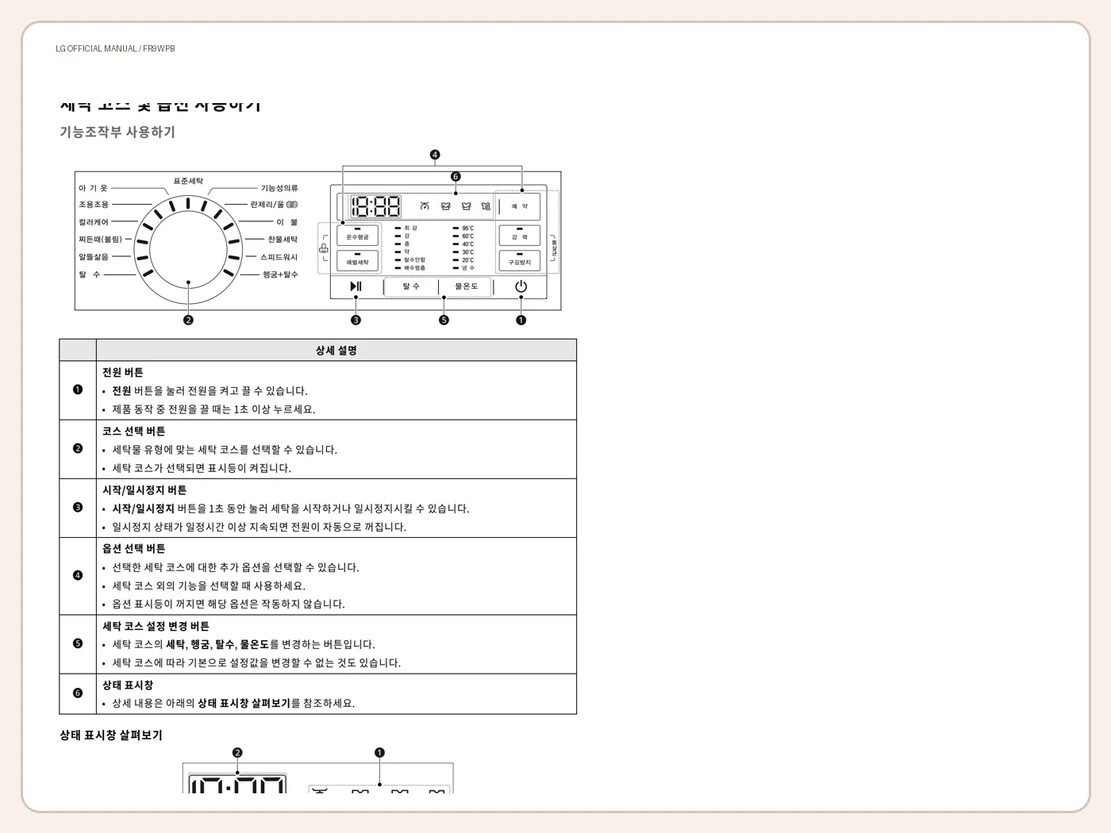
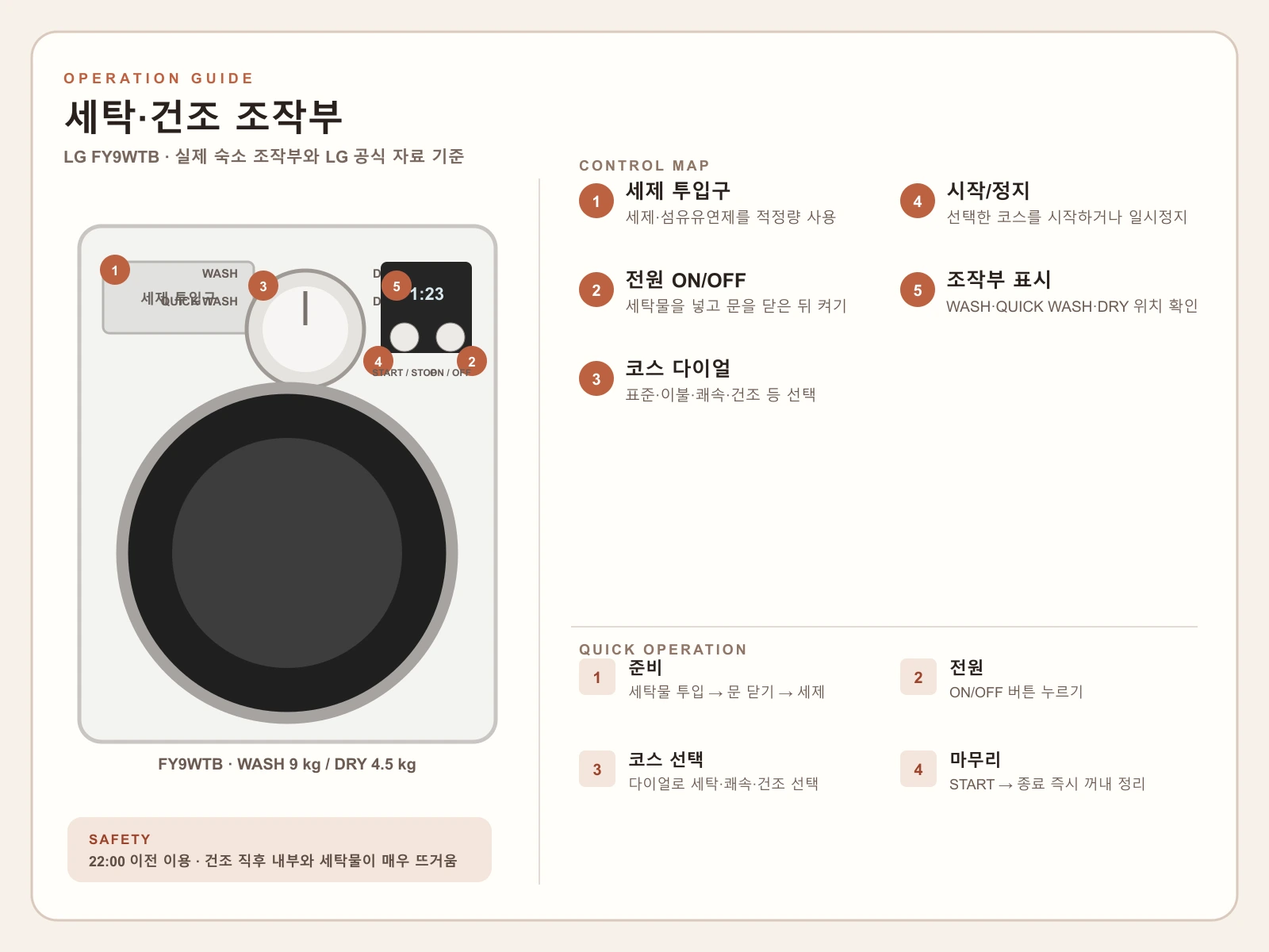
Update appliance guides and shared facilities

diff --git a/assets/site-data.js b/assets/site-data.js
@@ -159,11 +159,13 @@
       ]},
       appliances: { title: I('기기 사용법', 'Appliance guide', '設備ガイド', '设备指南'), kicker: 'APPLIANCES', hero: '/assets/images/kitchen.webp', summary: I('사진에서 확인한 모델명과 제조사 공식 자료를 대조해, 숙소에서 자주 쓰는 조작만 정리했습니다.', 'We matched the photographed models with manufacturer documentation and summarized the controls guests use most.', '写真の型番をメーカー公式資料と照合し、滞在中によく使う操作をまとめました。', '已将照片中的型号与制造商官方资料核对，并整理住客常用操作。'), devices: [
         { name: I('객실 냉난방', 'Room climate control', '客室空調', '房间空调'), model: 'Samsung AM016BN1PBH2 · AWR/MWR-WG00 series controller', image: '/assets/images/climate.webp', manualUrl: I('https://samsung.aiibook.net/b2b/catImage/263/240823_SAC%20%EC%A0%9C%EC%96%B4%20%EC%8B%9C%EC%8A%A4%ED%85%9C%20%EC%84%A4%EC%B9%98%20%EA%B0%80%EC%9D%B4%EB%93%9C%EB%B6%81.pdf','https://org.downloadcenter.samsung.com/downloadfile/ContentsFile.aspx?CDSite=UNI_RS&OriginYN=N&ModelType=N&ModelName=MWR-WG00JN&CttFileID=11569184&CDCttType=UM&VPath=UM%2F202607%2F20260723130050154%2FDB68-08383A-09_IB_SOL_LCD_Wired_Remote1_EU_Book_EN_260623-D01.pdf','https://org.downloadcenter.samsung.com/downloadfile/ContentsFile.aspx?CDSite=UNI_RS&OriginYN=N&ModelType=N&ModelName=MWR-WG00JN&CttFileID=11569184&CDCttType=UM&VPath=UM%2F202607%2F20260723130050154%2FDB68-08383A-09_IB_SOL_LCD_Wired_Remote1_EU_Book_EN_260623-D01.pdf','https://org.downloadcenter.samsung.com/downloadfile/ContentsFile.aspx?CDSite=UNI_RS&OriginYN=N&ModelType=N&ModelName=MWR-WG00JN&CttFileID=11569184&CDCttType=UM&VPath=UM%2F202607%2F20260723130050154%2FDB68-08383A-09_IB_SOL_LCD_Wired_Remote1_EU_Book_EN_260623-D01.pdf'), manualLabel: I('삼성 공식 설명서', 'Samsung official manual', 'Samsung公式説明書', '三星官方说明书'), guideSourceUrl: I('https://samsung.aiibook.net/b2b/catImage/263/240823_SAC%20%EC%A0%9C%EC%96%B4%20%EC%8B%9C%EC%8A%A4%ED%85%9C%20%EC%84%A4%EC%B9%98%20%EA%B0%80%EC%9D%B4%EB%93%9C%EB%B6%81.pdf','https://org.downloadcenter.samsung.com/downloadfile/ContentsFile.aspx?CDSite=UNI_UK&OriginYN=N&ModelType=N&ModelName=MWR-WG00JN&CttFileID=11569165&CDCttType=UM&VPath=UM%2F202607%2F20260723130050154%2FDB68-08383A-09_IB_SOL_LCD_Wired_Remote1_EU_Wing_EN_260623-D01.pdf','https://org.downloadcenter.samsung.com/downloadfile/ContentsFile.aspx?CDSite=UNI_UK&OriginYN=N&ModelType=N&ModelName=MWR-WG00JN&CttFileID=11569165&CDCttType=UM&VPath=UM%2F202607%2F20260723130050154%2FDB68-08383A-09_IB_SOL_LCD_Wired_Remote1_EU_Wing_EN_260623-D01.pdf','https://org.downloadcenter.samsung.com/downloadfile/ContentsFile.aspx?CDSite=UNI_UK&OriginYN=N&ModelType=N&ModelName=MWR-WG00JN&CttFileID=11569165&CDCttType=UM&VPath=UM%2F202607%2F20260723130050154%2FDB68-08383A-09_IB_SOL_LCD_Wired_Remote1_EU_Wing_EN_260623-D01.pdf'), guideSourceLabel: I('Samsung 조작부 공식 도해', 'Samsung official controller overview', 'Samsung公式操作部図', 'Samsung官方控制器图解'), guideImage: I('/assets/images/guides/official-samsung-ko.webp', '/assets/images/guides/official-samsung-en.webp', '/assets/images/guides/official-samsung-en.webp', '/assets/images/guides/official-samsung-en.webp'), steps: I(['왼쪽 아래 전원 버튼을 눌러 켭니다.','화면에서 운전 모드를 선택한 뒤 냉방 또는 난방을 고릅니다.','위·아래 버튼으로 희망 온도를 맞춥니다.','필요하면 풍량 메뉴에서 바람 세기를 조절합니다.','외출할 때는 전원을 꺼 주세요. 중앙 제어 중에는 일부 모드가 제한될 수 있습니다.'],['Press the lower-left power button.','Open Operation Mode and choose Cool or Heat.','Use up/down to set the target temperature.','Adjust fan speed from the fan menu if needed.','Turn it off when leaving. Some modes may be restricted by central control.'],['左下の電源を押します。','運転モードから冷房または暖房を選びます。','上下で設定温度を調節します。','必要に応じて風量を調節します。','外出時は電源を切ってください。集中制御中は一部モードが制限されます。'],['按左下角电源键。','在运行模式中选择制冷或制热。','用上下键设定温度。','需要时调节风量。','离开时请关闭。中央控制时部分模式可能受限。']) },
-        { name: I('전자레인지', 'Microwave', '電子レンジ', '微波炉'), model: 'Cooing MM-E20RBKC · 20 L / 700 W', image: '/assets/images/microwave.webp', manualUrl: 'https://www.rra.go.kr/ko/license/A_b_popup_keyno.do?key_no=R-R-mdk-AM720C2AD-PM0B', manualLabel: I('제품 공식 인증 정보', 'Official product certification', '製品公式認証情報', '产品官方认证信息'), guideSourceUrl: 'https://www.midea.com/content/dam/midea-aem/kz/manual/UM-K%D0%90Z-RUS-AM720C2MV-B-S-W-1-.pdf', guideSourceLabel: I('Midea AM720 공식 모델군 설명서', 'Midea AM720 official family manual', 'Midea AM720公式モデル群説明書', 'Midea AM720官方系列说明书'), guideImage: I('/assets/images/guides/official-microwave-ko.webp', '/assets/images/guides/official-microwave-en.webp', '/assets/images/guides/official-microwave-en.webp', '/assets/images/guides/official-microwave-en.webp'), steps: I(['금속·포일은 넣지 말고 전자레인지용 용기를 사용합니다.','음식을 넣고 문을 완전히 닫습니다.','빠른 가열은 시작/+30초 버튼을 누르며 시간을 늘립니다.','세부 설정은 전자레인지/출력 또는 무게해동·시간해동을 선택하고 다이얼로 맞춘 뒤 시작합니다.','정지/취소로 멈추고, 가열 중에는 자리를 비우지 마세요.'],['Use microwave-safe containers; never use metal or foil.','Place food inside and close the door fully.','For quick heating, press Start/+30 sec repeatedly.','For detailed settings, choose Power, Weight Defrost, or Time Defrost, set with the dial, then press Start.','Press Stop/Cancel to stop, and never leave heating unattended.'],['金属やアルミホイルは使わず、電子レンジ対応容器を使います。','食品を入れ、扉を完全に閉めます。','すぐに温める場合は「スタート/+30秒」を押します。','出力・重量解凍・時間解凍を選び、ダイヤルで設定してスタートします。','停止/取消で止め、加熱中は離れないでください。'],['请使用微波炉专用容器，勿放入金属或锡纸。','放入食物并关好门。','快速加热时反复按“启动/+30秒”。','选择功率、重量解冻或时间解冻，用旋钮设定后启动。','按停止/取消结束，加热时请勿离开。']) },
+        { name: I('전자레인지', 'Microwave', '電子レンジ', '微波炉'), model: 'Cooing MM-E20RBKC · 20 L / 700 W', image: '/assets/images/microwave.webp', manualUrl: 'https://www.rra.go.kr/ko/license/A_b_popup_keyno.do?key_no=R-R-mdk-AM720C2AD-PM0B', manualLabel: I('제품 공식 인증 정보', 'Official product certification', '製品公式認証情報', '产品官方认证信息'), guideSourceUrl: 'https://www.midea.com/content/dam/midea-aem/kz/manual/UM-K%D0%90Z-RUS-AM720C2MV-B-S-W-1-.pdf', guideSourceLabel: I('Midea AM720 공식 모델군 설명서', 'Midea AM720 official family manual', 'Midea AM720公式モデル群説明書', 'Midea AM720官方系列说明书'), guideImage: I('/assets/images/guides/official-microwave-ko.webp', '/assets/images/guides/official-microwave-en.webp', '/assets/images/guides/official-microwave-en.webp', '/assets/images/guides/official-microwave-en.webp'), steps: I(['금속·포일은 넣지 말고 전자레인지용 용기를 사용합니다.','음식을 넣고 문을 완전히 닫습니다.','빠른 가열은 시작/+30초 버튼을 누르며 시간을 늘립니다.','세부 설정은 파워조절 또는 해동 무게/시간 버튼을 누르고 다이얼로 값을 맞춘 뒤 시작합니다.','정지/취소로 멈추고, 가열 중에는 자리를 비우지 마세요.'],['Use microwave-safe containers; never use metal or foil.','Place food inside and close the door fully.','For quick heating, press Start/+30 sec repeatedly.','For detailed settings, choose Power, Weight Defrost, or Time Defrost, set with the dial, then press Start.','Press Stop/Cancel to stop, and never leave heating unattended.'],['金属やアルミホイルは使わず、電子レンジ対応容器を使います。','食品を入れ、扉を完全に閉めます。','すぐに温める場合は「スタート/+30秒」を押します。','出力・重量解凍・時間解凍を選び、ダイヤルで設定してスタートします。','停止/取消で止め、加熱中は離れないでください。'],['请使用微波炉专用容器，勿放入金属或锡纸。','放入食物并关好门。','快速加热时反复按“启动/+30秒”。','选择功率、重量解冻或时间解冻，用旋钮设定后启动。','按停止/取消结束，加热时请勿离开。']) },
         { name: I('하이라이트 전기쿡탑', 'Ceramic cooktop', '電気クッキングヒーター', '电陶炉'), model: 'Haatz HEC-1050S(H)-01', image: '/assets/images/cooktop.webp', manualUrl: 'https://www.haatz.com/upload/manual/202601/1767614190_m0137482_20260105205630.pdf', manualLabel: I('하츠 공식 설명서', 'Haatz official manual', 'Haatz公式説明書', 'Haatz官方说明书'), guideImage: I('/assets/images/guides/official-haatz.webp', '/assets/images/guides/official-haatz-en.webp', '/assets/images/guides/official-haatz-en.webp', '/assets/images/guides/official-haatz-en.webp'), steps: I(['평평한 바닥의 조리 용기를 올립니다.','전원 버튼을 1초간 눌러 대기 상태로 켭니다.','하이라이트 + 버튼을 누르면 1단으로 시작하며, + / −로 1–9단 화력을 조절합니다.','사용 후 전원 버튼을 1초간 눌러 끕니다.','잔열 표시 H가 사라질 때까지 상판을 만지지 마세요. 잠금 해제는 잠금 버튼을 2초간 누릅니다.'],['Use flat-bottom cookware.','Hold Power for 1 second to enter standby.','Press the Highlight + button to start at level 1, then use + / − for levels 1–9.','Hold Power for 1 second after use.','Do not touch while H is shown. To unlock, hold Lock for 2 seconds.'],['底が平らな調理器具を置きます。','電源を1秒長押しして待機状態にします。','ハイライトの＋で1段から開始し、＋／−で1〜9段を調節します。','使用後は電源を1秒長押しします。','余熱表示Hが消えるまで触れないでください。ロック解除は2秒長押しです。'],['使用平底锅具。','长按电源1秒进入待机。','按加热区＋从1档启动，再用＋／−调节1至9档。','使用后长按电源1秒关闭。','显示H时请勿触摸。长按锁定键2秒可解锁。']) },
-        { name: I('정수기', 'Water purifier', '浄水器', '净水器'), model: 'Chungho WP-30C9460BN', image: '/assets/images/purifier.webp', manualUrl: 'https://www.chungho.co.kr/newch/admin/manual/202405290953002979.pdf', manualLabel: I('청호 공식 설명서', 'Chungho official manual', 'Chungho公式説明書', 'Chungho官方说明书'), guideImage: I('/assets/images/guides/official-chungho-ko.webp', '/assets/images/guides/official-chungho-en.webp', '/assets/images/guides/official-chungho-en.webp', '/assets/images/guides/official-chungho-en.webp'), steps: I(['컵을 출수구 아래에 놓습니다.','정수·냉수·온수 버튼 중 원하는 물을 선택합니다.','용량 버튼으로 120 mL, 500 mL 또는 연속을 선택합니다.','출수 버튼을 눌러 물을 받습니다.','온수 사용 시 잠금 버튼을 약 5초 눌러 해제하고, 빨간 출수 버튼이 켜진 상태에서 화상에 주의하세요.'],['Place a cup under the spout.','Choose ambient, cold, or hot water.','Select 120 mL, 500 mL, or Continuous.','Press Dispense.','For hot water, hold Lock for about 5 seconds to unlock; take care when the dispense button turns red.'],['コップを注水口の下に置きます。','常温水・冷水・温水を選びます。','120 mL・500 mL・連続を選びます。','出水ボタンを押します。','温水はロックを約5秒長押しして解除し、赤い出水ボタン点灯中はやけどに注意してください。'],['将杯子放在出水口下。','选择常温、冷水或热水。','选择120 mL、500 mL或连续出水。','按出水键。','热水需长按锁定键约5秒解锁；出水键亮红色时谨防烫伤。']) }
+        { name: I('정수기', 'Water purifier', '浄水器', '净水器'), model: 'Chungho WP-30C9460BN', image: '/assets/images/purifier.webp', manualUrl: 'https://www.chungho.co.kr/newch/admin/manual/202405290953002979.pdf', manualLabel: I('청호 공식 설명서', 'Chungho official manual', 'Chungho公式説明書', 'Chungho官方说明书'), guideImage: I('/assets/images/guides/official-chungho-ko.webp', '/assets/images/guides/official-chungho-en.webp', '/assets/images/guides/official-chungho-en.webp', '/assets/images/guides/official-chungho-en.webp'), steps: I(['컵을 출수구 아래에 놓습니다.','정수·냉수·온수 버튼 중 원하는 물을 선택합니다.','용량 버튼으로 120 mL, 500 mL 또는 연속을 선택합니다.','출수 버튼을 눌러 물을 받습니다.','온수 사용 시 잠금 버튼을 약 5초 눌러 해제하고, 빨간 출수 버튼이 켜진 상태에서 화상에 주의하세요.'],['Place a cup under the spout.','Choose ambient, cold, or hot water.','Select 120 mL, 500 mL, or Continuous.','Press Dispense.','For hot water, hold Lock for about 5 seconds to unlock; take care when the dispense button turns red.'],['コップを注水口の下に置きます。','常温水・冷水・温水を選びます。','120 mL・500 mL・連続を選びます。','出水ボタンを押します。','温水はロックを約5秒長押しして解除し、赤い出水ボタン点灯中はやけどに注意してください。'],['将杯子放在出水口下。','选择常温、冷水或热水。','选择120 mL、500 mL或连续出水。','按出水键。','热水需长按锁定键约5秒解锁；出水键亮红色时谨防烫伤。']) },
+        { name: I('공용 냉장고', 'Shared refrigerator', '共用冷蔵庫', '公用冰箱'), image: '/assets/images/refrigerator.webp', showPhoto: true, guideImage: I('/assets/images/guides/fridge-guide-ko.webp', '/assets/images/guides/fridge-guide-en.webp', '/assets/images/guides/fridge-guide-en.webp', '/assets/images/guides/fridge-guide-en.webp'), steps: I(['음식과 음료마다 포스트잇에 이름(또는 객실)과 보관 시작일 또는 체크아웃일을 적어 붙입니다.','냄새가 강한 음식은 완전히 밀봉해 주세요.','유통기한이 지났거나 장기 보관되었거나 표기가 없는 식품은 위생 관리를 위해 폐기될 수 있습니다.','다른 게스트의 음식과 음료는 절대 드시지 마세요.','체크아웃할 때 남은 음식은 직접 정리해 주세요.'],['Label every food and drink with your name or room plus the storage date or checkout date.','Seal strong-smelling food completely.','Expired, long-stored, or unlabelled items may be discarded for hygiene.','Never consume food or drinks belonging to another guest.','Remove all of your remaining food at checkout.'],['食品・飲料ごとに名前または客室と、保管開始日またはチェックアウト日を記入してください。','においの強い食品は完全に密封してください。','期限切れ・長期保管・無記名の食品は衛生管理のため処分されることがあります。','他のゲストの食品や飲料は絶対に口にしないでください。','チェックアウト時に残った食品を片付けてください。'],['每份食品和饮料请标注姓名或房间以及存放日期或退房日期。','气味较重的食品请完全密封。','过期、长期存放或无标签食品可能因卫生管理被清理。','请勿食用其他住客的食品或饮料。','退房时请自行清理剩余食品。']) },
+        { name: I('게스트박스', 'Guest Box', 'ゲストボックス', '住客用品箱'), image: '/assets/images/guest-box.webp', showPhoto: true, guideImage: '/assets/images/guest-box-guide.webp', steps: I(['공용 공간의 GUEST BOX에서 필요한 물품을 확인합니다.','여분 수건·일회용 칫솔 세트·밴드·여행용 어댑터·고데기·물티슈·비닐봉투가 준비되어 있습니다.','여행용 어댑터와 고데기 등 재사용 물품은 사용 직후 제자리에 돌려놓습니다.','일회용품은 필요한 수량만 가져가 주세요.'],['Find the GUEST BOX in the shared area.','It contains extra towels, disposable dental kits, bandages, travel adapters, a hair straightener, wet wipes, and plastic bags.','Return reusable items such as the adapter and hair straightener immediately after use.','Take only the quantity of disposable items you need.'],['共用スペースのGUEST BOXをご利用ください。','予備タオル、使い捨て歯ブラシ、絆創膏、旅行用アダプター、ヘアアイロン、ウェットティッシュ、ビニール袋があります。','アダプターやヘアアイロンなど再利用品は使用後すぐ元の場所に戻してください。','使い捨て用品は必要な分だけお取りください。'],['请在公共区域使用GUEST BOX。','内有备用毛巾、一次性牙具、创可贴、旅行转换插头、直发器、湿巾和塑料袋。','转换插头和直发器等可重复使用物品请在使用后立即归还原位。','一次性用品请只取所需数量。']) }
       ]},
-      laundry: { title: I('세탁 안내', 'Laundry guide', '洗濯案内', '洗衣指南'), kicker: 'LAUNDRY', hero: '/assets/images/laundry.webp', model: 'LG FR9WPB · wash 9 kg / dry 4.5 kg', manualUrl: 'https://www.lge.co.kr/support/product-F9WPB', manualLabel: I('LG 공식 설명서', 'LG official manual', 'LG公式説明書', 'LG官方说明书'), guideImage: I('/assets/images/guides/official-lg.webp','/assets/images/guides/official-lg-en.webp','/assets/images/guides/official-lg-en.webp','/assets/images/guides/official-lg-en.webp'), summary: I('사진 속 LG FR9WPB 세탁·건조 겸용 모델의 기본 코스를 제조사 공식 자료와 조작부를 기준으로 정리했습니다.', 'These basic cycles for the photographed LG FR9WPB washer-dryer are based on LG documentation and the control panel.', '写真のLG FR9WPB洗濯乾燥機について、公式資料と操作部を基に基本コースをまとめました。', '根据LG官方资料和照片中的控制面板，整理了FR9WPB洗烘一体机的基本程序。'), sections: [{ title: I('기본 사용', 'Basic use', '基本操作', '基本使用'), steps: I(['세탁물을 넣고 문을 완전히 닫은 뒤 세제를 적정량 넣습니다.','전원 버튼을 누릅니다.','다이얼로 세탁은 표준, 건조는 표준건조 등 원하는 코스를 선택합니다.','시작/일시정지 버튼을 누릅니다.','울·섬세 의류와 열에 약한 옷은 건조하지 말고, 완료 후 바로 꺼내 문을 살짝 열어 둡니다.'],['Load laundry, close the door fully, and add the correct amount of detergent.','Press Power.','Use the dial to choose a cycle, such as Standard for washing or Standard Dry for drying.','Press Start/Pause.','Do not tumble-dry wool, delicate, or heat-sensitive items. Remove items promptly and leave the door slightly open.'],['洗濯物を入れ、扉を閉めて洗剤を適量入れます。','電源を押します。','ダイヤルで洗濯は標準、乾燥は標準乾燥などを選びます。','スタート／一時停止を押します。','ウール・デリケート・熱に弱い衣類は乾燥せず、終了後はすぐ取り出して扉を少し開けます。'],['放入衣物、关好门并加入适量洗涤剂。','按电源键。','旋钮选择程序，例如洗涤用标准、烘干用标准烘干。','按开始/暂停。','羊毛、精细或不耐热衣物请勿烘干；结束后及时取出并微开机门。']) }]},
+      laundry: { title: I('세탁 안내', 'Laundry guide', '洗濯案内', '洗衣指南'), kicker: 'LAUNDRY', hero: '/assets/images/laundry.webp', model: 'LG FY9WTB · wash 9 kg / dry 4.5 kg', manualUrl: 'https://www.lge.co.kr/support/product-F9WTB', manualLabel: I('LG 공식 설명서', 'LG official manual', 'LG公式説明書', 'LG官方说明书'), guideImage: I('/assets/images/guides/official-lg.webp','/assets/images/guides/official-lg-en.webp','/assets/images/guides/official-lg-en.webp','/assets/images/guides/official-lg-en.webp'), summary: I('드라이브의 실물 사진과 숙소 안내문, LG FY9WTB 공식 자료를 기준으로 세탁·건조 방법을 정리했습니다. 세제와 섬유유연제는 세탁기 위 선반에 있습니다.', 'This guide follows the hostel photo and instructions plus LG FY9WTB documentation. Detergent and fabric softener are on the shelf above the machine.', '宿の実物写真・案内文とLG FY9WTB公式資料を基にまとめました。洗剤と柔軟剤は洗濯機上の棚にあります。', '本指南依据住宿实物照片、说明及LG FY9WTB官方资料。洗涤剂和柔顺剂位于洗衣机上方搁板。'), sections: [{ title: I('기본 사용', 'Basic use', '基本操作', '基本使用'), steps: I(['세탁물을 넣고 문을 완전히 닫은 뒤, 위 선반의 세제와 섬유유연제를 적정량 넣습니다.','전원 ON/OFF 버튼을 누릅니다.','다이얼로 표준 세탁·쾌속 세탁·건조 등 원하는 코스를 선택합니다.','START/STOP 버튼을 눌러 시작합니다. 밤 10시 이전에 이용을 마쳐 주세요.','완료 후 세탁물을 바로 꺼내고 세제 투입구와 문을 열어 둡니다. 건조 후에는 먼지 필터를 정리해 주세요.','건조 직후 내부와 세탁물이 매우 뜨거우니 화상에 주의하세요.'],['Load laundry, close the door fully, then add the correct amount of detergent and softener from the shelf above.','Press ON/OFF.','Use the dial to choose Standard Wash, Quick Wash, Dry, or another suitable cycle.','Press START/STOP. Please finish using the machine before 22:00.','Remove laundry promptly, leave the detergent drawer and door open, and clean the lint filter after drying.','The drum and laundry are very hot immediately after drying; take care to avoid burns.'],['洗濯物を入れて扉を閉め、上の棚にある洗剤と柔軟剤を適量入れます。','ON/OFFを押します。','ダイヤルで標準洗濯・スピード洗濯・乾燥などを選びます。','START/STOPを押します。22時までに利用を終えてください。','終了後はすぐ取り出し、洗剤投入口と扉を開け、乾燥後は糸くずフィルターを掃除します。','乾燥直後は内部と衣類が非常に熱いため、やけどに注意してください。'],['放入衣物并关好门，从上方搁板取适量洗涤剂和柔顺剂加入。','按ON/OFF电源键。','旋钮选择标准洗、快速洗、烘干等合适程序。','按START/STOP开始。请在22:00前结束使用。','结束后及时取出衣物，敞开洗涤剂盒和机门，烘干后清理绒毛过滤器。','烘干结束后内筒和衣物非常烫，请谨防烫伤。']) }]},
       trash: { title: I('쓰레기 배출', 'Trash guide', 'ごみ出し案内', '垃圾投放指南'), kicker: 'WASTE', hero: '/assets/images/trash.webp', summary: I('공용 분리수거함의 표시에 맞춰 일반 쓰레기와 재활용품을 나눠 주세요.', 'Sort general waste and recyclables according to the labels on the shared bins.', '共用ごみ箱の表示に従い、一般ごみと資源ごみを分けてください。', '请按照公共垃圾桶标识分类一般垃圾和可回收物。'), sections: [{ title: I('분리배출', 'How to sort', '分別方法', '分类方法'), steps: I(['내용물을 비우고 가볍게 헹굽니다.','플라스틱·캔·병은 표시된 칸에 넣습니다.','음식물과 일반 쓰레기를 섞지 마세요.','큰 쓰레기는 임의로 버리지 말고 호스트에게 문의하세요.'],['Empty and rinse containers.','Use the labeled sections for plastic, cans, and bottles.','Do not mix food waste with general waste.','Ask the host before discarding bulky items.'],['容器を空にして軽くすすぎます。','プラスチック・缶・びんを表示の箱へ。','生ごみと一般ごみを混ぜないでください。','大型ごみはホストに確認してください。'],['倒空并简单冲洗容器。','塑料、罐和瓶放入对应分类桶。','请勿混合厨余和一般垃圾。','大件垃圾请先咨询房东。']) }]},
       nearby: { title: I('주변 추천', 'Nearby places', '周辺おすすめ', '附近推荐'), kicker: 'NEIGHBORHOOD', hero: '/assets/images/brand.webp', summary: I('동대문과 광장시장 사이, 걸어서 만나는 서울의 오래된 맛과 풍경입니다.', 'Old Seoul flavors and sights within walking distance between Dongdaemun and Gwangjang Market.', '東大門と広蔵市場の間、歩いて出会う昔ながらのソウルです。', '在东大门与广藏市场之间，步行即可体验老首尔风味。'), places: [
         { name: I('초원순대국', 'Chowon Sundaeguk', 'チョウォンスンデクッ', '草原米肠汤'), text: I('현지인이 찾는 따뜻한 순댓국 한 그릇.', 'A warming local-style sundae soup.', '地元で親しまれる温かなスンデクッ。', '当地人喜爱的暖胃米肠汤。'), url: 'https://www.google.com/maps/search/?api=1&query=초원순대국' },

diff --git a/assets/master-app.js b/assets/master-app.js
@@ -37,15 +37,15 @@ function renderWifi(){const p=D.pages.wifi;$('.wifi-hero .page-title').textConte
 function sourceLink(d){const labels=({ko:['사용 설명서 보기','조작 도해 자료 보기'],en:['View user manual','View operation diagram'],ja:['取扱説明書を見る','操作図を見る'],zh:['查看使用说明书','查看操作图']})[lang]||['사용 설명서 보기','조작 도해 자료 보기'];const links=[],manual=t(d.manualUrl),diagram=t(d.guideSourceUrl);if(manual)links.push([manual,labels[0]]);if(diagram)links.push([diagram,labels[1]]);return links.map(x=>'<a class="official-manual-link" href="'+esc(x[0])+'" target="_blank" rel="noopener"><span class="mi">menu_book</span><span>'+esc(x[1])+'</span><span aria-hidden="true">↗</span></a>').join('')}
 function guideVisual(d){const image=t(d.guideImage);if(!image)return '';const label=t(d.name||d.title)||'Operation guide';return '<figure class="device-guide-visual"><button class="image-zoom" type="button" data-fullscreen-image="'+esc(image)+'" data-fullscreen-title="'+esc(label)+'"><img src="'+esc(image)+'" alt="'+esc(label)+'" loading="lazy"></button></figure>'}
 function modelLine(d){if(!d.model)return '';const label=({ko:'모델명',en:'Model',ja:'モデル名',zh:'型号'})[lang]||'모델명';return '<p class="device-model"><span>'+esc(label)+':</span><strong>'+esc(t(d.model))+'</strong></p>'}
-function deviceCard(d,icon){return '<article class="device"><div class="device-header"><span class="circle"><span class="mi">'+icon+'</span></span><div><h3>'+esc(t(d.name))+'</h3></div></div><div class="device-body">'+modelLine(d)+steps(d.steps)+guideVisual(d)+sourceLink(d)+'</div></article>'}
-function renderGuides(){const p=D.pages.appliances;$('.screen[data-screen="appliances"] .page-title').textContent=t(p.title);$('#appliancesContent').innerHTML=p.devices.map((d,i)=>deviceCard(d,['thermostat','restaurant_menu','countertops','room_service'][i])).join('');const l=D.pages.laundry;$('.screen[data-screen="laundry"] .page-title').textContent=t(l.title);$('#laundryContent').innerHTML='<article class="device"><div class="device-header"><span class="circle"><span class="mi">local_laundry_service</span></span><div><h3>'+esc(t(l.title))+'</h3></div></div><div class="device-body">'+modelLine(l)+'<p class="device-summary">'+esc(t(l.summary))+'</p>'+steps(l.sections[0].steps)+guideVisual(l)+sourceLink(l)+'</div></article>';const w=D.pages.trash;$('.screen[data-screen="trash"] .page-title').textContent=t(w.title);$('#trashContent').innerHTML='<article class="device trash-guide-card"><div class="device-header"><span class="circle"><span class="mi">delete_sweep</span></span><div><h3>'+esc(t(w.sections[0].title))+'</h3></div></div><div class="device-body"><p>'+esc(t(w.summary))+'</p>'+steps(w.sections[0].steps)+imageFigure(w.hero,t(w.title))+'</div></article>';}
+function deviceCard(d,icon){return '<article class="device"><div class="device-header"><span class="circle"><span class="mi">'+icon+'</span></span><div><h3>'+esc(t(d.name))+'</h3></div></div><div class="device-body">'+modelLine(d)+(d.showPhoto?imageFigure(d.image,t(d.name)):'')+steps(d.steps)+guideVisual(d)+sourceLink(d)+'</div></article>'}
+function renderGuides(){const p=D.pages.appliances;$('.screen[data-screen="appliances"] .page-title').textContent=t(p.title);$('#appliancesContent').innerHTML=p.devices.map((d,i)=>deviceCard(d,['thermostat','microwave','countertops','water_drop','kitchen','inventory_2'][i]||'room_service')).join('');const l=D.pages.laundry;$('.screen[data-screen="laundry"] .page-title').textContent=t(l.title);$('#laundryContent').innerHTML='<article class="device"><div class="device-header"><span class="circle"><span class="mi">local_laundry_service</span></span><div><h3>'+esc(t(l.title))+'</h3></div></div><div class="device-body">'+modelLine(l)+'<p class="device-summary">'+esc(t(l.summary))+'</p>'+imageFigure(l.hero,t(l.title))+steps(l.sections[0].steps)+guideVisual(l)+sourceLink(l)+'</div></article>';const w=D.pages.trash;$('.screen[data-screen="trash"] .page-title').textContent=t(w.title);$('#trashContent').innerHTML='<article class="device trash-guide-card"><div class="device-header"><span class="circle"><span class="mi">delete_sweep</span></span><div><h3>'+esc(t(w.sections[0].title))+'</h3></div></div><div class="device-body"><p>'+esc(t(w.summary))+'</p>'+steps(w.sections[0].steps)+imageFigure(w.hero,t(w.title))+'</div></article>';}
 function renderGallery(){const g=D.gallery;$('#galleryThumbs').innerHTML=g.map((it,i)=>'<button class="gallery-thumb '+(i===0?'active':'')+'" type="button" data-gallery-index="'+i+'"><img src="'+it[0]+'" alt="'+esc(t(it[1]))+'"></button>').join('');selectGallery(0);}
 function selectGallery(i){const g=D.gallery[i];if(!g)return;$$('.gallery-thumb').forEach((e,n)=>e.classList.toggle('active',n===i));$('#galleryMain').src=g[0];$('#galleryMain').alt=t(g[1]);$('#galleryTitle').textContent=t(g[1]);$('#galleryDesc').textContent='STAY ANOTHER LIFE';$('#galleryCount').textContent=(i+1)+' / '+D.gallery.length;}
 function renderGuidebook(){const p=D.pages.guidebook;$('.guidebook-hero h2').textContent=t(p.title);$('.guidebook-hero p:last-child').textContent=t(p.summary);const pages=[['checkin','event_available',t(D.pages.checkin.title)],['transport','near_me',t(D.pages.transport.title)],['wifi','wifi','Wi-Fi'],['appliances','room_service',t(D.pages.appliances.title)],['laundry','local_laundry_service',t(D.pages.laundry.title)],['trash','delete',t(D.pages.trash.title)]];$('#guidebookContent').innerHTML='<div class="guidebook-index">'+pages.map(x=>'<button class="stay-info-link" data-go="'+x[0]+'"><span class="mi">'+x[1]+'</span><span>'+esc(x[2])+'</span></button>').join('')+'<button class="btn primary" id="printGuide"><span class="mi">menu_book</span>'+esc(t(D.ui.print))+'</button></div>';$('#printGuide').onclick=()=>print();}
 function renderAll(){document.documentElement.lang=lang;$('#homeLangText').textContent=langCode[lang];renderMenu();renderHome();renderCheckin();renderTransport();renderRestaurants();renderWifi();renderGuides();renderGallery();renderGuidebook();$('.chat-log .msg.bot').textContent=c().hello;$('.chat-note').textContent=c().note;$('#chatInput').placeholder=c().question;}
 function show(name,push=true){if(!$('.screen[data-screen="'+name+'"]'))name='home';$$('.screen').forEach(e=>e.classList.toggle('active',e.dataset.screen===name));$$('.tab').forEach(e=>e.classList.toggle('active',e.dataset.go===name));document.body.className='is-'+name+' motion-ready';closeMenu();window.scrollTo({top:0,behavior:'instant'});if(push)history.pushState({screen:name},'',location.pathname+location.search);}
 function openMenu(){$('#menuPanel').classList.add('open');$('#menuBackdrop').classList.add('open')}function closeMenu(){$('#menuPanel').classList.remove('open');$('#menuBackdrop').classList.remove('open')}function openChat(){$('#chatPanel').classList.add('open');$('#chatBackdrop').classList.add('open');setTimeout(()=>$('#chatInput').focus(),80)}function closeChat(){$('#chatPanel').classList.remove('open');$('#chatBackdrop').classList.remove('open')}
-function answer(q){const s=q.toLowerCase();if(/wifi|wi-fi|와이파이|ネット|网络/.test(s))return t(D.pages.wifi.summary);if(/체크인|check.?in|入住|チェックイン/.test(s))return t(D.pages.checkin.summary);if(/체크아웃|check.?out|退房|チェックアウト/.test(s))return t(D.pages.checkout.summary);if(/주소|위치|교통|동대문|airport|station|交通|アクセス/.test(s))return t(D.pages.transport.summary)+' '+t(D.address);if(/세탁|laundry|washer|洗濯|洗衣/.test(s))return t(D.pages.laundry.summary);if(/쓰레기|trash|waste|ごみ|垃圾/.test(s))return t(D.pages.trash.summary);if(/냉방|난방|전자레인지|쿡탑|정수기|appliance|设备|設備/.test(s))return t(D.pages.appliances.summary);return t(D.ui.noAnswer)}
+function answer(q){const s=q.toLowerCase();if(/wifi|wi-fi|와이파이|ネット|网络/.test(s))return t(D.pages.wifi.summary);if(/체크인|check.?in|入住|チェックイン/.test(s))return t(D.pages.checkin.summary);if(/체크아웃|check.?out|退房|チェックアウト/.test(s))return t(D.pages.checkout.summary);if(/주소|위치|교통|동대문|airport|station|交通|アクセス/.test(s))return t(D.pages.transport.summary)+' '+t(D.address);if(/세탁|laundry|washer|洗濯|洗衣/.test(s))return t(D.pages.laundry.summary);if(/쓰레기|trash|waste|ごみ|垃圾/.test(s))return t(D.pages.trash.summary);if(/냉방|난방|전자레인지|쿡탑|정수기|냉장고|게스트박스|appliance|refrigerator|guest box|设备|設備/.test(s))return t(D.pages.appliances.summary);return t(D.ui.noAnswer)}
 document.addEventListener('click',e=>{const go=e.target.closest('[data-go]');if(go){show(go.dataset.go);return}const th=e.target.closest('[data-gallery-index]');if(th){selectGallery(Number(th.dataset.galleryIndex));return}const cp=e.target.closest('[data-copy]');if(cp){navigator.clipboard?.writeText(cp.dataset.copy);$('#toast').classList.add('show');setTimeout(()=>$('#toast').classList.remove('show'),1200);return}const zoom=e.target.closest('[data-fullscreen-image]');if(zoom){$('#imageLightboxImg').src=zoom.dataset.fullscreenImage;$('#imageLightboxCaption').textContent=zoom.dataset.fullscreenTitle||'';$('#imageLightbox').classList.add('open');$('#imageLightboxBackdrop').classList.add('open')}});
 $('#menuTop').onclick=openMenu;$('#closeMenu').onclick=closeMenu;$('#menuBackdrop').onclick=closeMenu;const homeLanguage=$('#homeLanguage'),homeLangToggle=$('#homeLangToggle');function closeHomeLanguage(){homeLanguage.classList.remove('open');homeLangToggle.setAttribute('aria-expanded','false')}homeLangToggle.onclick=e=>{e.stopPropagation();const open=homeLanguage.classList.toggle('open');homeLangToggle.setAttribute('aria-expanded',String(open))};document.querySelectorAll('.home-language-option').forEach(b=>b.onclick=()=>{lang=b.dataset.language;localStorage.setItem('another-house-lang',lang);closeHomeLanguage();renderAll()});document.addEventListener('click',e=>{if(!homeLanguage.contains(e.target))closeHomeLanguage()});document.addEventListener('keydown',e=>{if(e.key==='Escape')closeHomeLanguage()});$('#openChatFab').onclick=openChat;$('#closeChat').onclick=closeChat;$('#chatBackdrop').onclick=closeChat;$('#closeImageLightbox').onclick=()=>{$('#imageLightbox').classList.remove('open');$('#imageLightboxBackdrop').classList.remove('open')};$('#imageLightboxBackdrop').onclick=$('#closeImageLightbox').onclick;$$('.scroll-cue').forEach(b=>b.onclick=()=>$(b.dataset.scrollTarget)?.scrollIntoView({behavior:'smooth'}));
 function ask(q){q=String(q||'').trim();if(!q)return;openChat();$('#chatLog').insertAdjacentHTML('beforeend','<div class="msg user">'+esc(q)+'</div><div class="msg bot">'+esc(answer(q))+'</div>');$('#chatLog').scrollTop=$('#chatLog').scrollHeight;$('#chatInput').value=''}$('#chatForm').onsubmit=e=>{e.preventDefault();ask($('#chatInput').value)};$('#conciergeAskForm').onsubmit=e=>{e.preventDefault();ask($('#conciergeAskInput').value);$('#conciergeAskInput').value=''};$$('.suggestion').forEach(b=>b.onclick=()=>ask(b.textContent));window.onpopstate=e=>show(e.state?.screen||'home',false);renderAll();history.replaceState({screen:'home'},'',location.pathname+location.search);

diff --git a/sw.js b/sw.js
@@ -1,5 +1,5 @@
-const CACHE = "another-house-v22";
-const ASSETS = ["/","/index.html","/guide-anotherstay.html","/assets/site-data.js?v=20260728-20","/assets/restaurant-data.js?v=20260728-20","/assets/master-app.js?v=20260728-20","/assets/restaurant-expanded.js?v=20260728-20","/assets/tour-data.js?v=20260728-20","/assets/tour-app.js?v=20260728-20","/assets/images/restaurants/western.webp","/assets/images/restaurants/brunch.webp","/assets/images/restaurants/cafe.webp","/assets/images/restaurants/kyochon.webp","/assets/images/tours/seoul-sunny-hero.webp","/assets/images/checkinout-hero.jpg","/assets/images/transportation-hero.jpg","/assets/images/wifi-hero.jpg","/assets/images/laundry-hero.webp","/assets/images/trash-hero.png","/assets/images/tours/spots/01-ddp.webp","/assets/images/tours/spots/02-heunginjimun.webp","/assets/images/tours/spots/03-naksan.webp","/assets/images/tours/spots/04-ihwa.webp","/assets/images/tours/spots/05-changsin.webp","/assets/images/tours/spots/06-gwangjang.webp","/assets/images/tours/spots/07-cheonggyecheon.webp","/assets/images/tours/spots/08-wall-museum.webp","/assets/images/tours/spots/09-shopping-complex.webp","/assets/images/tours/spots/10-dongmyo.webp","/assets/images/tours/spots/11-toy-market.webp","/assets/images/tours/spots/12-jongmyo.webp","/assets/images/tours/spots/13-changdeokgung.webp","/assets/images/tours/spots/14-changgyeonggung.webp","/assets/images/tours/spots/15-gyeongbokgung.webp","/assets/images/tours/spots/16-ikseon.webp","/assets/images/tours/spots/17-insadong.webp","/assets/images/tours/spots/18-seosulla.webp","/assets/images/tours/spots/19-daehangno.webp","/assets/images/tours/spots/20-mmca.webp","/assets/font/material-symbols-outlined.woff2","/assets/font/oxanium-latin.woff2","/assets/images/hero.webp","/assets/images/ai-concierge-manager-v3.png","/assets/images/arrival.webp","/assets/images/building-entrance.webp","/assets/images/brand.webp","/assets/images/entrance-brand.webp","/assets/images/kitchen.webp","/assets/images/kitchen-bar.webp","/assets/images/powder-room.webp","/assets/images/shower.webp","/assets/images/climate.webp","/assets/images/laundry.webp","/assets/images/trash.webp","/assets/images/restaurants/duck.webp","/assets/images/restaurants/jinokhwa.webp","/assets/images/restaurants/buchon.webp","/assets/images/restaurants/everest.webp","/assets/images/restaurants/coffee.webp","/assets/images/restaurants/jokbal.webp","/assets/images/restaurants/jeonju.webp","/assets/images/restaurants/seoulzip.webp","/assets/images/restaurants/pho.webp","/assets/images/restaurants/soonhee.webp","/assets/images/restaurants/haejang.webp","/assets/images/guides/official-samsung.webp","/assets/images/guides/official-samsung-ko.webp","/assets/images/guides/official-samsung-en.webp","/assets/images/guides/official-microwave-ko.webp","/assets/images/guides/official-microwave-en.webp","/assets/images/guides/official-haatz-en.webp","/assets/images/guides/official-chungho-ko.webp","/assets/images/guides/official-chungho-en.webp","/assets/images/guides/official-microwave.webp","/assets/images/guides/official-haatz.webp","/assets/images/guides/official-chungho.webp","/assets/images/guides/official-lg.webp","/assets/images/guides/official-lg-en.webp"];
+const CACHE = "another-house-v23";
+const ASSETS = ["/","/index.html","/guide-anotherstay.html","/assets/site-data.js?v=20260728-21","/assets/restaurant-data.js?v=20260728-21","/assets/master-app.js?v=20260728-21","/assets/restaurant-expanded.js?v=20260728-21","/assets/tour-data.js?v=20260728-21","/assets/tour-app.js?v=20260728-21","/assets/images/restaurants/western.webp","/assets/images/restaurants/brunch.webp","/assets/images/restaurants/cafe.webp","/assets/images/restaurants/kyochon.webp","/assets/images/tours/seoul-sunny-hero.webp","/assets/images/checkinout-hero.jpg","/assets/images/transportation-hero.jpg","/assets/images/wifi-hero.jpg","/assets/images/laundry-hero.webp","/assets/images/trash-hero.png","/assets/images/tours/spots/01-ddp.webp","/assets/images/tours/spots/02-heunginjimun.webp","/assets/images/tours/spots/03-naksan.webp","/assets/images/tours/spots/04-ihwa.webp","/assets/images/tours/spots/05-changsin.webp","/assets/images/tours/spots/06-gwangjang.webp","/assets/images/tours/spots/07-cheonggyecheon.webp","/assets/images/tours/spots/08-wall-museum.webp","/assets/images/tours/spots/09-shopping-complex.webp","/assets/images/tours/spots/10-dongmyo.webp","/assets/images/tours/spots/11-toy-market.webp","/assets/images/tours/spots/12-jongmyo.webp","/assets/images/tours/spots/13-changdeokgung.webp","/assets/images/tours/spots/14-changgyeonggung.webp","/assets/images/tours/spots/15-gyeongbokgung.webp","/assets/images/tours/spots/16-ikseon.webp","/assets/images/tours/spots/17-insadong.webp","/assets/images/tours/spots/18-seosulla.webp","/assets/images/tours/spots/19-daehangno.webp","/assets/images/tours/spots/20-mmca.webp","/assets/font/material-symbols-outlined.woff2","/assets/font/oxanium-latin.woff2","/assets/images/hero.webp","/assets/images/ai-concierge-manager-v3.png","/assets/images/arrival.webp","/assets/images/building-entrance.webp","/assets/images/brand.webp","/assets/images/entrance-brand.webp","/assets/images/kitchen.webp","/assets/images/kitchen-bar.webp","/assets/images/powder-room.webp","/assets/images/shower.webp","/assets/images/climate.webp","/assets/images/microwave.webp","/assets/images/cooktop.webp","/assets/images/purifier.webp","/assets/images/refrigerator.webp","/assets/images/guest-box.webp","/assets/images/guest-box-guide.webp","/assets/images/laundry.webp","/assets/images/trash.webp","/assets/images/restaurants/duck.webp","/assets/images/restaurants/jinokhwa.webp","/assets/images/restaurants/buchon.webp","/assets/images/restaurants/everest.webp","/assets/images/restaurants/coffee.webp","/assets/images/restaurants/jokbal.webp","/assets/images/restaurants/jeonju.webp","/assets/images/restaurants/seoulzip.webp","/assets/images/restaurants/pho.webp","/assets/images/restaurants/soonhee.webp","/assets/images/restaurants/haejang.webp","/assets/images/guides/official-samsung.webp","/assets/images/guides/official-samsung-ko.webp","/assets/images/guides/official-samsung-en.webp","/assets/images/guides/official-microwave-ko.webp","/assets/images/guides/official-microwave-en.webp","/assets/images/guides/official-haatz-en.webp","/assets/images/guides/official-chungho-ko.webp","/assets/images/guides/official-chungho-en.webp","/assets/images/guides/official-microwave.webp","/assets/images/guides/official-haatz.webp","/assets/images/guides/official-chungho.webp","/assets/images/guides/official-lg.webp","/assets/images/guides/official-lg-en.webp","/assets/images/guides/fridge-guide-ko.webp","/assets/images/guides/fridge-guide-en.webp"];
 self.addEventListener("install",event=>{event.waitUntil(caches.open(CACHE).then(cache=>cache.addAll(ASSETS)));self.skipWaiting();});
 self.addEventListener("activate",event=>{event.waitUntil(caches.keys().then(keys=>Promise.all(keys.filter(key=>key!==CACHE).map(key=>caches.delete(key)))));self.clients.claim();});
 self.addEventListener("fetch",event=>{if(event.request.method!=="GET")return;event.respondWith(fetch(event.request).then(response=>{if(response.ok){const copy=response.clone();caches.open(CACHE).then(cache=>cache.put(event.request,copy));}return response;}).catch(()=>caches.match(event.request).then(hit=>hit||caches.match("/"))));});

diff --git a/guide-anotherstay.html b/guide-anotherstay.html
@@ -1099,5 +1099,5 @@ html[lang="ko"] p,html[lang="ko"] small,html[lang="ko"] li,html[lang="ko"] input
 <div class="menu-backdrop" id="menuBackdrop"></div><aside class="menu-panel" id="menuPanel"><div class="menu-panel-head"><strong>ANOTHER HOUSE</strong><button class="icon-btn" id="closeMenu"><span class="mi">close</span></button></div><button class="menu-link" data-go="home"><span>홈</span><small>처음 화면</small></button><button class="menu-link" data-go="gallery"><span>객실 둘러보기</span><small>객실 둘러보기</small></button><button class="menu-link" data-go="checkin"><span>체크인 · 체크아웃 안내</span><small>입실·퇴실 방법과 도어락 안내</small></button><button class="menu-link" data-go="transport"><span>교통 안내</span><small>공항에서 숙소까지</small></button><button class="menu-link" data-go="wifi"><span>Wi-Fi</span><small>네트워크 정보</small></button><button class="menu-link" data-go="restaurants"><span>주변 맛집</span><small>도보 10분 맛집 리스트</small></button><button class="menu-link" data-go="tours"><span>근교 추천 투어</span><small>근교 추천 20곳</small></button><button class="menu-link" data-go="appliances"><span>냉난방 · 주방 기기 안내</span><small>냉난방 · 주방 기기 사용법</small></button><button class="menu-link" data-go="laundry"><span>세탁 안내</span><small>세탁기 · 건조기 사용법</small></button><button class="menu-link" data-go="trash"><span>쓰레기 배출</span><small>분리수거와 배출 안내</small></button><button class="menu-link" data-go="guidebook"><span>가이드북</span><small>모든 안내 한 번에 보기</small></button></aside>
 <div class="image-lightbox-backdrop" id="imageLightboxBackdrop"></div><section class="image-lightbox" id="imageLightbox"><button class="image-lightbox-close" id="closeImageLightbox"><span class="mi">close</span></button><img id="imageLightboxImg" src="" alt=""><p class="image-lightbox-caption" id="imageLightboxCaption"></p></section>
 <button class="chat-fab another-chat-fab" id="openChatFab"><span class="mi">smart_toy</span></button><div class="chat-backdrop" id="chatBackdrop"></div><section class="chat-panel" id="chatPanel"><header class="chat-head"><div><h2>ANOTHER HOUSE CONCIERGE</h2><p>숙소 이용 안내만 답변합니다.</p></div><button class="chat-close" id="closeChat"><span class="mi">close</span></button></header><div class="chat-log" id="chatLog"><div class="msg bot">안녕하세요. 체크인, 교통, Wi-Fi, 기기 사용법을 물어보세요.</div></div><div><div class="chat-suggestions"><button class="suggestion">체크인은 몇 시야?</button><button class="suggestion">와이파이 알려줘</button><button class="suggestion">동대문역에서 어떻게 가?</button></div><div class="chat-note">비밀번호와 출입 코드는 예약 플랫폼 메시지에서 확인해 주세요.</div><form class="chat-form" id="chatForm"><textarea id="chatInput" rows="1" placeholder="질문을 입력하세요"></textarea><button class="send-btn"><span class="mi">arrow_upward</span></button></form></div></section><div class="toast" id="toast">복사했습니다</div>
-<script src="assets/site-data.js?v=20260728-20"></script><script src="assets/restaurant-data.js?v=20260728-20"></script><script src="assets/restaurant-expanded.js?v=20260728-20"></script><script src="assets/tour-data.js?v=20260728-20"></script><script src="assets/master-app.js?v=20260728-20"></script><script src="assets/tour-app.js?v=20260728-20"></script></body>
+<script src="assets/site-data.js?v=20260728-21"></script><script src="assets/restaurant-data.js?v=20260728-21"></script><script src="assets/restaurant-expanded.js?v=20260728-21"></script><script src="assets/tour-data.js?v=20260728-21"></script><script src="assets/master-app.js?v=20260728-21"></script><script src="assets/tour-app.js?v=20260728-21"></script></body>
 </html>

diff --git a/index.html b/index.html
@@ -1099,5 +1099,5 @@ html[lang="ko"] p,html[lang="ko"] small,html[lang="ko"] li,html[lang="ko"] input
 <div class="menu-backdrop" id="menuBackdrop"></div><aside class="menu-panel" id="menuPanel"><div class="menu-panel-head"><strong>ANOTHER HOUSE</strong><button class="icon-btn" id="closeMenu"><span class="mi">close</span></button></div><button class="menu-link" data-go="home"><span>홈</span><small>처음 화면</small></button><button class="menu-link" data-go="gallery"><span>객실 둘러보기</span><small>객실 둘러보기</small></button><button class="menu-link" data-go="checkin"><span>체크인 · 체크아웃 안내</span><small>입실·퇴실 방법과 도어락 안내</small></button><button class="menu-link" data-go="transport"><span>교통 안내</span><small>공항에서 숙소까지</small></button><button class="menu-link" data-go="wifi"><span>Wi-Fi</span><small>네트워크 정보</small></button><button class="menu-link" data-go="restaurants"><span>주변 맛집</span><small>도보 10분 맛집 리스트</small></button><button class="menu-link" data-go="tours"><span>근교 추천 투어</span><small>근교 추천 20곳</small></button><button class="menu-link" data-go="appliances"><span>냉난방 · 주방 기기 안내</span><small>냉난방 · 주방 기기 사용법</small></button><button class="menu-link" data-go="laundry"><span>세탁 안내</span><small>세탁기 · 건조기 사용법</small></button><button class="menu-link" data-go="trash"><span>쓰레기 배출</span><small>분리수거와 배출 안내</small></button><button class="menu-link" data-go="guidebook"><span>가이드북</span><small>모든 안내 한 번에 보기</small></button></aside>
 <div class="image-lightbox-backdrop" id="imageLightboxBackdrop"></div><section class="image-lightbox" id="imageLightbox"><button class="image-lightbox-close" id="closeImageLightbox"><span class="mi">close</span></button><img id="imageLightboxImg" src="" alt=""><p class="image-lightbox-caption" id="imageLightboxCaption"></p></section>
 <button class="chat-fab another-chat-fab" id="openChatFab"><span class="mi">smart_toy</span></button><div class="chat-backdrop" id="chatBackdrop"></div><section class="chat-panel" id="chatPanel"><header class="chat-head"><div><h2>ANOTHER HOUSE CONCIERGE</h2><p>숙소 이용 안내만 답변합니다.</p></div><button class="chat-close" id="closeChat"><span class="mi">close</span></button></header><div class="chat-log" id="chatLog"><div class="msg bot">안녕하세요. 체크인, 교통, Wi-Fi, 기기 사용법을 물어보세요.</div></div><div><div class="chat-suggestions"><button class="suggestion">체크인은 몇 시야?</button><button class="suggestion">와이파이 알려줘</button><button class="suggestion">동대문역에서 어떻게 가?</button></div><div class="chat-note">비밀번호와 출입 코드는 예약 플랫폼 메시지에서 확인해 주세요.</div><form class="chat-form" id="chatForm"><textarea id="chatInput" rows="1" placeholder="질문을 입력하세요"></textarea><button class="send-btn"><span class="mi">arrow_upward</span></button></form></div></section><div class="toast" id="toast">복사했습니다</div>
-<script src="assets/site-data.js?v=20260728-20"></script><script src="assets/restaurant-data.js?v=20260728-20"></script><script src="assets/restaurant-expanded.js?v=20260728-20"></script><script src="assets/tour-data.js?v=20260728-20"></script><script src="assets/master-app.js?v=20260728-20"></script><script src="assets/tour-app.js?v=20260728-20"></script></body>
+<script src="assets/site-data.js?v=20260728-21"></script><script src="assets/restaurant-data.js?v=20260728-21"></script><script src="assets/restaurant-expanded.js?v=20260728-21"></script><script src="assets/tour-data.js?v=20260728-21"></script><script src="assets/master-app.js?v=20260728-21"></script><script src="assets/tour-app.js?v=20260728-21"></script></body>
 </html>
